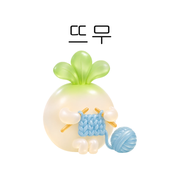
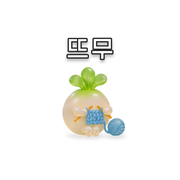
심볼 톤·그림자 조정, 뜨무 타이포 변경

Changed region(s): [[0.2222, 0.1389, 0.7778, 0.8611]]

diff --git a/index.html b/index.html
@@ -353,7 +353,7 @@ button.chip:hover { color: var(--ink) }
 </style>
 
 <div id="splash" aria-hidden="true">
[2 lines of base64/hex data omitted]
   <div class="splash-name">뜨무로그</div>
 </div>
 <header class="top">

diff --git a/sw.js b/sw.js
@@ -1,4 +1,4 @@
-const CACHE = 'hankoh-11902fd21e';
+const CACHE = 'hankoh-0bc0d6d8c5';
 const SHELL = ['./', './index.html', './manifest.webmanifest', './icon-180.png', './icon-192.png', './icon-512.png'];
 self.addEventListener('install', e => {
   e.waitUntil(caches.open(CACHE).then(c => c.addAll(SHELL)).then(() => self.skipWaiting()));
